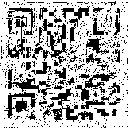
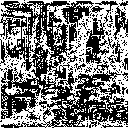
renamed files

diff --git a/wm2dwt/mymain2.py b/wm2dwt/mymain2.py
@@ -98,7 +98,7 @@ def getWatermark(Y_w, level=1):
     # print(np.max(watermark_array))
     for i in range(W.shape[0]):
         for j in range(W.shape[1]):
-            if W[i,j]<-2 or W[i,j]>2:
+            if W[i,j]<-4.5 or W[i,j]> 4.5:
                 W[i,j]=255
             else:
                 W[i,j]=0
